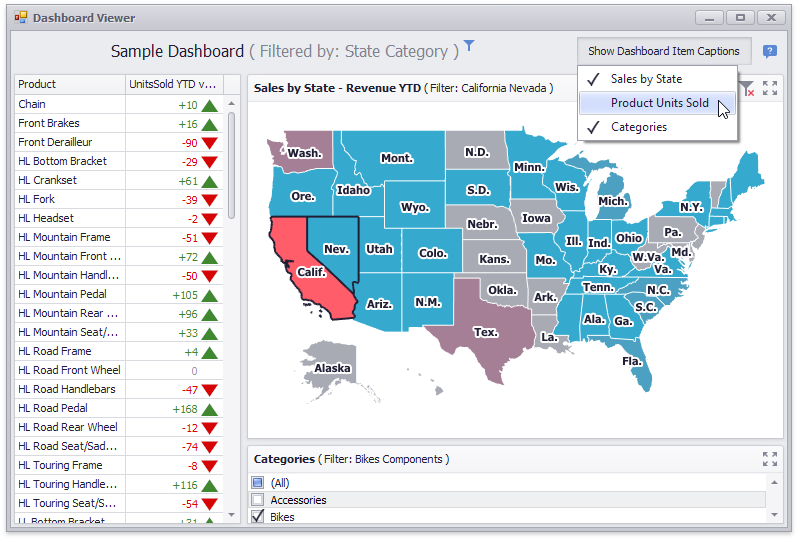
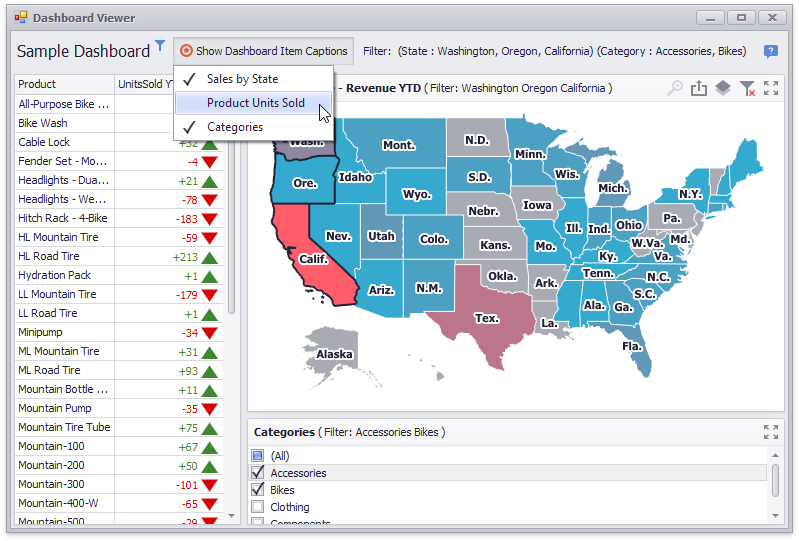
Filter values in title

Changed region(s): [[0.0, 0.0593, 0.9925, 0.9778]]

diff --git a/CS/CustomizeDashboardItemCaptionExample/ViewerForm1.cs b/CS/CustomizeDashboardItemCaptionExample/ViewerForm1.cs
@@ -46,21 +46,20 @@ namespace CustomizeDashboardItemCaption_Viewer_Example
         {
             DashboardViewer viewer = (DashboardViewer)sender;
 
-            // Display filtered dimensions.
-            List<string> filteredDimensions = new List<string>();
-            foreach (var item in viewer.Dashboard.Items) {
-                string dimensionName = String.Empty;
-                var filterValues = viewer.GetCurrentFilterValues(item.ComponentName);
-                if (filterValues != null)
-                    if (filterValues.Count > 0)
-                    {
-                        dimensionName = String.Concat(filterValues.Select(
-                            axp => String.Format("{0} ", axp.GetAxisPoint(axp.AvailableAxisNames[0]).Dimension.Name)).Distinct());
-                        filteredDimensions.Add(dimensionName);
-                    }
+            // Display a string of master filter values.
+            string filterText = String.Empty;
+            foreach (var item in viewer.Dashboard.Items)
+            {
+                if (viewer.CanSetMasterFilter(item.ComponentName))
+                {
+                    var filterValues = viewer.GetCurrentFilterValues(item.ComponentName);
+                    filterText += GetFilterText(filterValues);
+                }
             }
-            if (filteredDimensions.Count > 0)
-                e.FilterText = String.Format(" ( Filtered by: {0})", String.Concat(filteredDimensions));
+            DashboardToolbarItem toolbarItem = new DashboardToolbarItem();
+            toolbarItem.Caption = "Filter: " + filterText;
+            e.Items.Insert(0, toolbarItem);
+
 
             // Remove the Export button depending on the static variable.
             if (!allowExport)
@@ -71,6 +70,7 @@ namespace CustomizeDashboardItemCaption_Viewer_Example
             // Add drop-down menu to show/hide dashboard item captions.
             DashboardToolbarItem toolbarItemRoot = new DashboardToolbarItem();
             toolbarItemRoot.Caption = "Show Dashboard Item Captions";
+            toolbarItemRoot.ButtonImage = Image.FromFile("Brand_16x16.png");
             foreach (var item in viewer.Dashboard.Items)
             {
                 toolbarItemRoot.MenuItems.Add(new DashboardToolbarMenuItem(item.ShowCaption, item.Name,
@@ -87,9 +87,21 @@ namespace CustomizeDashboardItemCaption_Viewer_Example
                     System.Diagnostics.Process.Start("https://www.devexpress.com/Support/Center/Example/Details/T630210/");
                 }));
             // Note that a raster image is proportionally resized to 24 px height when displayed in the Title area.
-            //infoLinkItem.ButtonImage = Image.FromFile("KnowledgeBaseArticle_32x32.png");
             infoLinkItem.SvgImage = svgImageCollection1["support"];
             e.Items.Add(infoLinkItem);
+        }
+
+        private string GetFilterText(IList<AxisPointTuple> filterValues)
+        {
+            string filterText = string.Empty;
+            if (filterValues.Count > 0)
+            {
+                string dimensionName = String.Concat(filterValues.Select(
+                    axp => String.Format("{0} ", axp.GetAxisPoint(axp.AvailableAxisNames[0]).Dimension.Name)).Distinct());
+                filterText = String.Format(" ({0}:{1})", dimensionName, String.Join(",", filterValues.Select(
+                    axp => String.Format(" {0}", axp.GetAxisPoint(axp.AvailableAxisNames[0]).DisplayText)).ToArray()));
+            }
+            return filterText;
         }
 
         private void DashboardViewer_CustomizeDashboardItemCaption(object sender, CustomizeDashboardItemCaptionEventArgs e)

diff --git a/Readme.md b/Readme.md
@@ -1,8 +1,16 @@
 # WinForms Dashboard - How to customize the dashboard title and dashboard item captions
 
 
-This example demonstrates how to use the <a href="https://docs.devexpress.com/Dashboard/DevExpress.DashboardWin.DashboardViewer.CustomizeDashboardTitle">DashboardViewer.CustomizeDashboardTitle</a> and <a href="https://docs.devexpress.com/Dashboard/DevExpress.DashboardWin.DashboardViewer.CustomizeDashboardItemCaption">DashboardViewer.CustomizeDashboardItemCaption</a> events to modify the text and toolbar items contained in the <a href="https://docs.devexpress.com/Dashboard/15618/creating-dashboards/creating-dashboards-in-the-winforms-designer/dashboard-layout/dashboard-title">dashboard title area</a>  and <a href="https://docs.devexpress.com/Dashboard/15620/creating-dashboards/creating-dashboards-in-the-winforms-designer/dashboard-layout/dashboard-item-caption">dashboard item captions</a>, respectively.<br>The dashboard title displays the dimensions by which the dashboard data is filtered. You can use a drop-down menu to selectively hide dashboard item captions. Clicking a custom button navigates to this example online.<br>A dashboard item caption displays the master filter values applied using that item.<br>Export buttons are hidden for all dashboard items except the map, and for the entire dashboard, if the Category contains "Bikes".<br><img src="https://raw.githubusercontent.com/DevExpress-Examples/winforms-dashboard-how-to-customize-the-dashboard-title-and-dashboard-item-captions-t630210/18.1.3+/media/55392a78-d013-4aac-b01a-da9fed4675e3.png"><br><br>See also the <a href="https://www.devexpress.com/Support/Center/p/T629796">WinForms Dashboard - How to delay data load until all filters are set</a> example.
+This example demonstrates how to use the <a href="https://docs.devexpress.com/Dashboard/DevExpress.DashboardWin.DashboardViewer.CustomizeDashboardTitle">DashboardViewer.CustomizeDashboardTitle</a> and <a href="https://docs.devexpress.com/Dashboard/DevExpress.DashboardWin.DashboardViewer.CustomizeDashboardItemCaption">DashboardViewer.CustomizeDashboardItemCaption</a> events to modify the text and toolbar items contained in the <a href="https://docs.devexpress.com/Dashboard/15618/creating-dashboards/creating-dashboards-in-the-winforms-designer/dashboard-layout/dashboard-title">dashboard title area</a>  and <a href="https://docs.devexpress.com/Dashboard/15620/creating-dashboards/creating-dashboards-in-the-winforms-designer/dashboard-layout/dashboard-item-caption">dashboard item captions</a>, respectively.
 
-<br/>
+The dashboard title displays the dimensions and values by which the dashboard data is filtered. You can use a drop-down menu to selectively hide dashboard item captions. Clicking a custom Support button navigates to this example online.
+
+A dashboard item caption displays the master filter values applied using that item.
+
+Export buttons are hidden for all dashboard items except the map, and for the entire dashboard, if the Category contains "Bikes".
+
+<img src="https://raw.githubusercontent.com/DevExpress-Examples/winforms-dashboard-how-to-customize-the-dashboard-title-and-dashboard-item-captions-t630210/18.1.3+/media/55392a78-d013-4aac-b01a-da9fed4675e3.png">
+
+See also the <a href="https://www.devexpress.com/Support/Center/p/T629796">WinForms Dashboard - How to delay data load until all filters are set</a> example.
 
 
